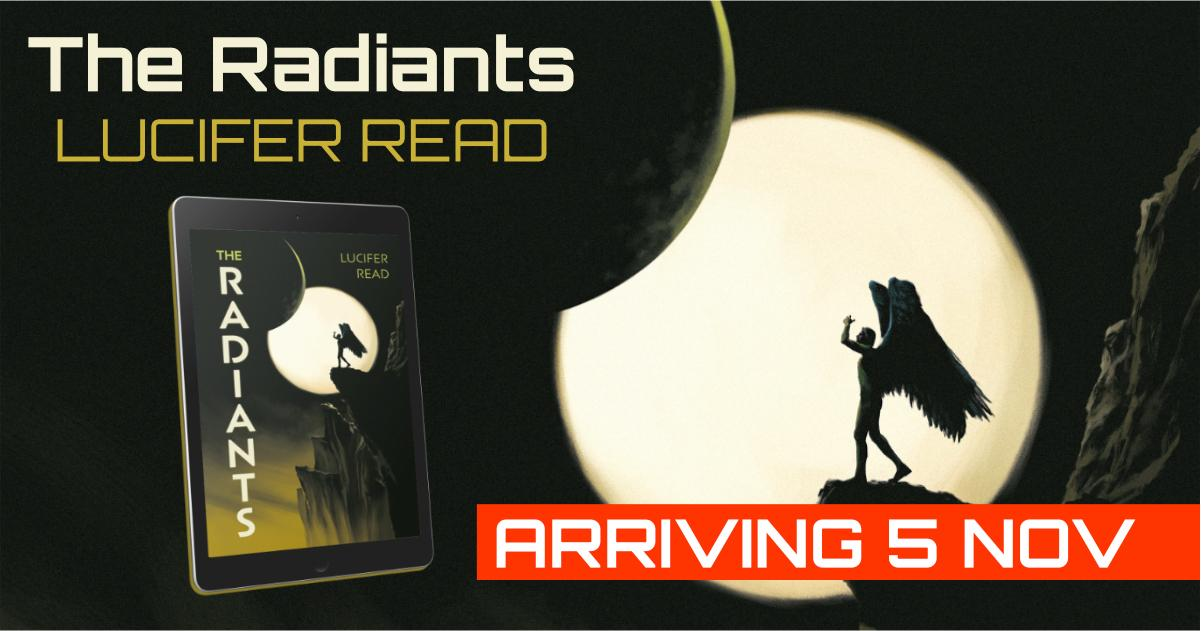
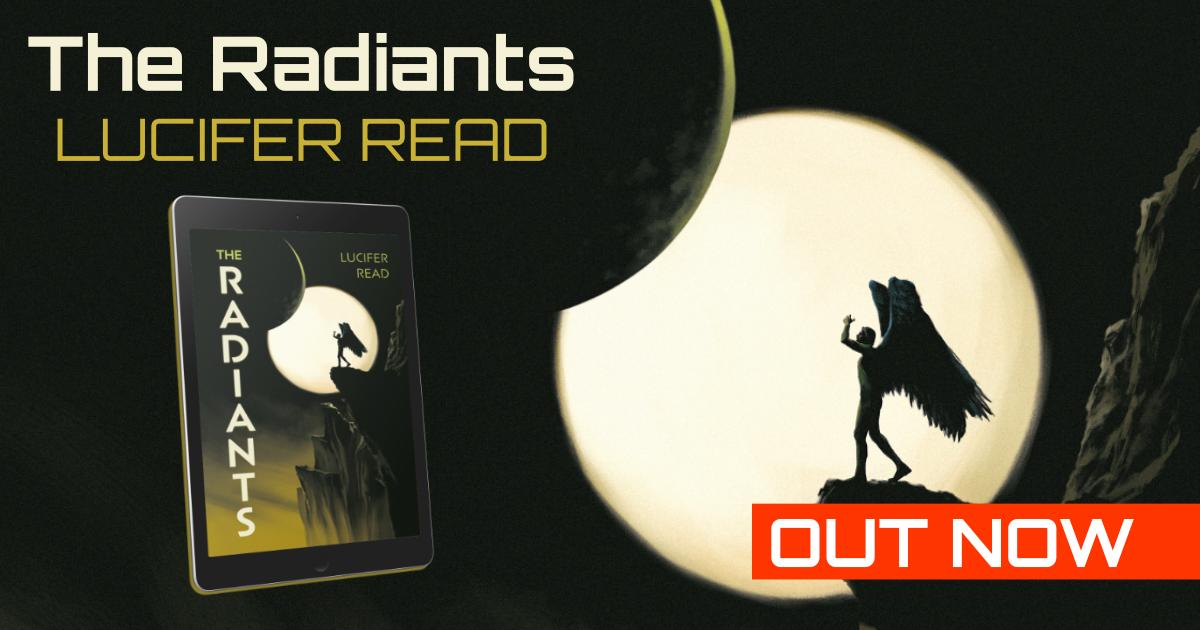
Radiants release
Changed buttons to 'ORDER' for The Radiants!!

diff --git a/pages/welcome.html b/pages/welcome.html
@@ -146,19 +146,19 @@ permalink: /welcome/
     </div>
 
     <!-- ── BELOW-CARD ACTIONS ───────────────────────────────────
-         Pre-order first (primary CTA), back-link second (exit).
-         Centred beneath the card so neither panel is stretched. -->
+        Order first (primary CTA), back-link second (exit).
+        Centred beneath the card so neither panel is stretched. -->
     <div class="page-actions">
 
-        <div class="preorder-block">
-            <p class="preorder-note">
+        <div class="order-block">
+            <p class="order-note">
                 <strong><em>The Radiants</em></strong> — Book 1 of the <strong>Heliopaides Saga</strong>
-                — is available to pre-order now before its <strong>5 November 2026 release</strong>.
+                — is available to order now.
             </p>
             <a href="https://books2read.com/u/3ng52o"
                target="_blank" rel="noopener"
-               class="btn btn-dim preorder-btn">
-                Pre-order on Amazon →
+               class="btn btn-dim order-btn">
+                Order on Amazon →
             </a>
         </div>
 
@@ -285,7 +285,7 @@ permalink: /welcome/
         padding-bottom: 1rem;
     }
 
-    .preorder-block {
+    .order-block {
         display: flex;
         flex-direction: column;
         align-items: center;
@@ -293,18 +293,18 @@ permalink: /welcome/
         text-align: center;
     }
 
-    .preorder-note {
+    .order-note {
         font-size: 0.82rem;
         color: var(--color-text-muted);
         line-height: 1.6;
     }
 
-    .preorder-note em {
+    .order-note em {
         color: var(--color-accent);
         font-style: italic;
     }
 
-    .preorder-btn {
+    .order-btn {
         font-size: 0.65rem;
         padding: 0.65rem 1.25rem;
     }

diff --git a/pages/books.html b/pages/books.html
@@ -38,7 +38,7 @@ og_image: "/assets/images/og_images/og_image_book.jpg"
             <div style="display: flex; align-items: center; gap: 1.5rem; flex-wrap: wrap;">
                 <p style="color: var(--color-accent); font-weight: bold; margin: 0;">RELEASING 5 NOVEMBER 2026</p>
                 <a href="https://books2read.com/u/3ng52o" class="btn btn-primary" target="_blank"
-                    rel="noopener noreferrer" style="font-size: 0.9rem; padding: 0.5rem 1.2rem;">PREORDER</a>
+                    rel="noopener noreferrer" style="font-size: 0.9rem; padding: 0.5rem 1.2rem;">ORDER</a>
             </div>
 
             <p>
@@ -79,9 +79,9 @@ og_image: "/assets/images/og_images/og_image_book.jpg"
     </blockquote>
 </section>
 
-<!-- PREORDER (centred, larger) -->
+<!-- ORDER (centred, larger) -->
 <section style="padding: 2rem 10% 3rem; text-align: center;">
-    <h3 style="font-family: var(--font-header); font-size: 1.4rem; margin: 0 0 1.5rem;">PREORDER YOUR COPY:</h3>
+    <h3 style="font-family: var(--font-header); font-size: 1.4rem; margin: 0 0 1.5rem;">ORDER YOUR COPY:</h3>
 
     <div style="display: flex; gap: 1rem; justify-content: center; flex-wrap: wrap;">
         <a href="https://books2read.com/u/3ng52o" class="btn btn-primary" target="_blank"
@@ -91,7 +91,7 @@ og_image: "/assets/images/og_images/og_image_book.jpg"
         <!-- <a href="#" class="btn btn-outline" style="filter: grayscale(100%); font-size: 1.3rem; padding: 1rem 3rem;">BARNES & NOBLE</a> -->
     </div>
 
-    <p><em>Also available on Kindle Unlimited</em></p>
+    <p><em>Also available on Kindle+</em></p>
 
     <!--
        DIRECT BUY BUTTONS (BookFunnel / BookVault)

diff --git a/index.html b/index.html
@@ -38,7 +38,7 @@ stories of extinction, survival, and immortality."
     </p>
     <div style="display: flex; gap: 1rem; justify-content: center; flex-wrap: wrap;">
         <a href="https://books2read.com/u/3ng52o" class="btn btn-primary" target="_blank"
-        rel="noopener noreferrer">PREORDER ON AMAZON</a>
+        rel="noopener noreferrer">ORDER ON AMAZON</a>
         <a href="{{ '/books/' | relative_url }}" class="btn btn-outline">VIEW THE RADIANTS</a>
     </div>
 </section>
@@ -67,9 +67,9 @@ stories of extinction, survival, and immortality."
                     <h4 class="book-title">THE RADIANTS</h4>
                     <p class="book-series">Book 1 | Heliopaides Saga</p>
                     <p class="release-line">Releases <strong>5 November 2026</strong></p>
-                    <p class="format-line">Ebook · Kindle Unlimited</p>
+                    <p class="format-line">Ebook · Kindle+</p>
                     <div class="book-actions">
-                        <a class="btn-amazon" href="https://books2read.com/u/3ng52o target="_blank" rel="noopener">Preorder now on Amazon</a>
+                        <a class="btn-amazon" href="https://books2read.com/u/3ng52o target="_blank" rel="noopener">Order now on Amazon</a>
                         <!-- Paperback release: add a second button here, e.g.
                         <a class="btn-amazon btn-outline" href="PAPERBACK-LINK" target="_blank" rel="noopener">Paperback</a> -->
                     </div>
